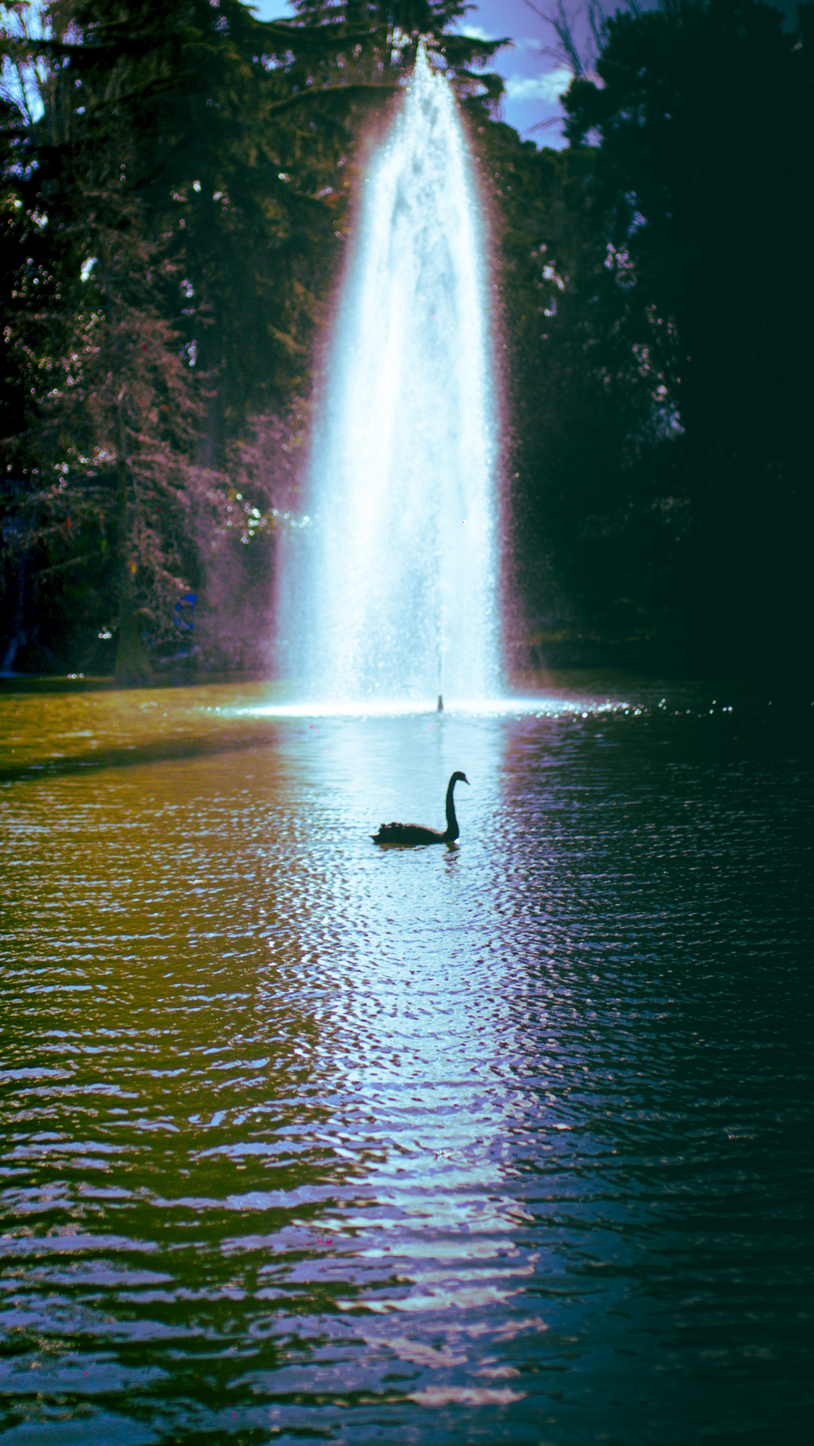
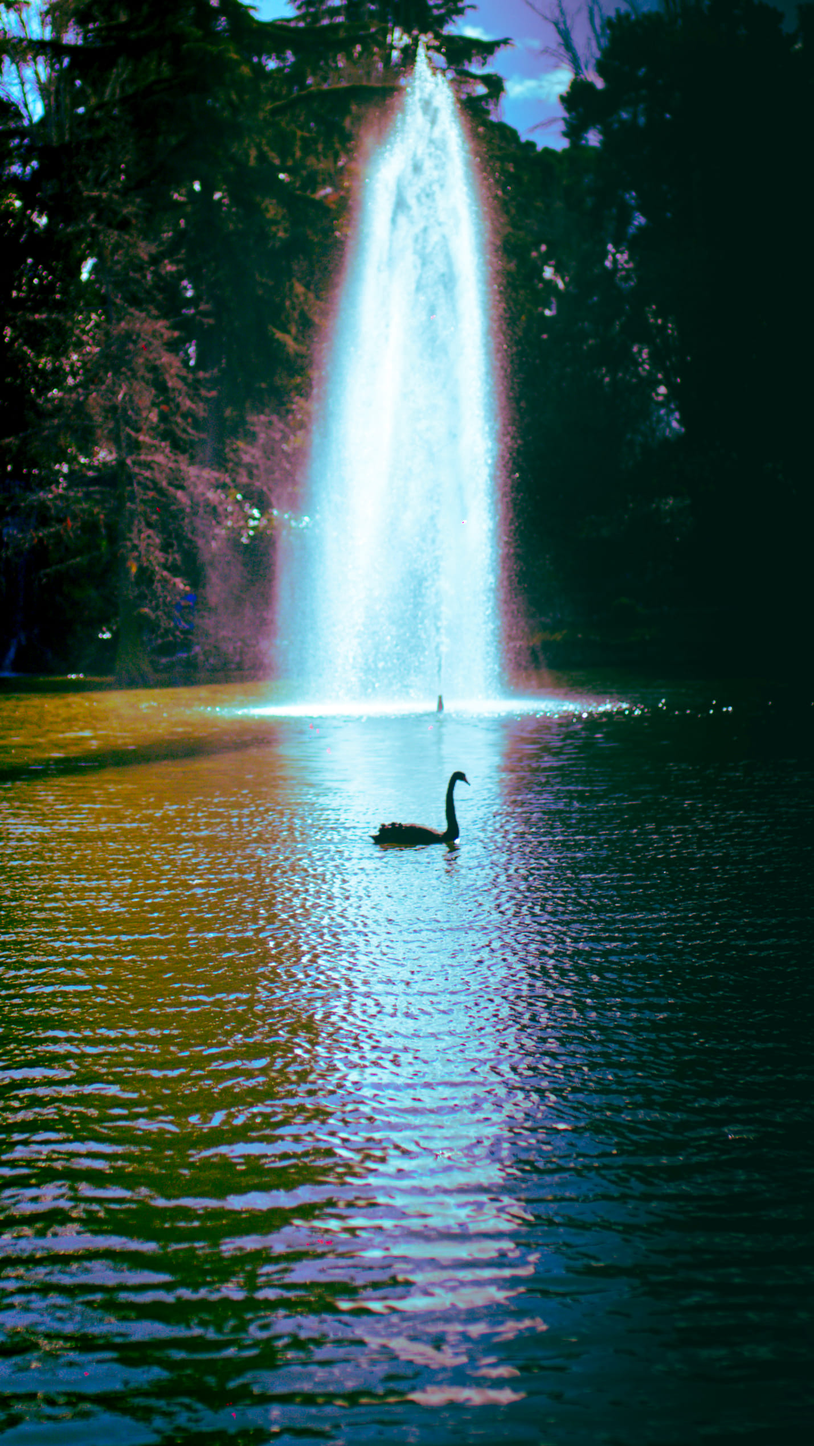
Optimize images

diff --git a/src/features/photography/scripts/optimize-photos.ts b/src/features/photography/scripts/optimize-photos.ts
@@ -1,0 +1,75 @@
+import sharp from 'sharp'
+import fs from 'fs'
+import path from 'path'
+
+const MAX_WIDTH = 1920 // Maximum width for photos
+const QUALITY = 80 // JPEG quality (0-100)
+
+async function optimizePhotos() {
+  const photosDir = path.join(process.cwd(), 'public/assets/images/photography')
+
+  if (!fs.existsSync(photosDir)) {
+    console.log('Photography directory does not exist')
+    return
+  }
+
+  const files = fs.readdirSync(photosDir)
+  const photoFiles = files.filter(file => /\.(jpg|jpeg|png|webp)$/i.test(file))
+
+  console.log(`Found ${photoFiles.length} photos to optimize`)
+
+  for (const file of photoFiles) {
+    const filePath = path.join(photosDir, file)
+    const tempPath = path.join(photosDir, `temp-${file}`)
+
+    try {
+      // Get original metadata and dimensions
+      const metadata = await sharp(filePath).metadata()
+      const originalSize = fs.statSync(filePath).size
+
+      // Only resize if width is larger than MAX_WIDTH
+      const shouldResize = metadata.width ? metadata.width > MAX_WIDTH : false
+
+      // Process image
+      const image = sharp(filePath)
+      if (shouldResize) {
+        image.resize(MAX_WIDTH, null, { fit: 'inside' })
+      }
+
+      // Optimize and save
+      await image
+        .jpeg({
+          quality: QUALITY,
+          mozjpeg: true,
+          chromaSubsampling: '4:4:4',
+        })
+        .withMetadata() // Preserve metadata
+        .toFile(tempPath)
+
+      // Get optimized size
+      const optimizedSize = fs.statSync(tempPath).size
+      const savings = (((originalSize - optimizedSize) / originalSize) * 100).toFixed(1)
+
+      // Replace original with optimized version
+      fs.unlinkSync(filePath)
+      fs.renameSync(tempPath, filePath)
+
+      console.log(`✓ ${file}:
+        ${shouldResize ? `Resized to ${MAX_WIDTH}px width` : 'No resize needed'}
+        Reduced from ${(originalSize / 1024 / 1024).toFixed(1)}MB to ${(optimizedSize / 1024 / 1024).toFixed(1)}MB (${savings}% savings)`)
+    } catch (error) {
+      console.error(`Error processing ${file}:`, error)
+      // Clean up temp file if it exists
+      if (fs.existsSync(tempPath)) {
+        fs.unlinkSync(tempPath)
+      }
+    }
+  }
+
+  console.log('\nOptimization complete!')
+}
+
+// Only run if called directly
+if (require.main === module) {
+  optimizePhotos().catch(console.error)
+}
